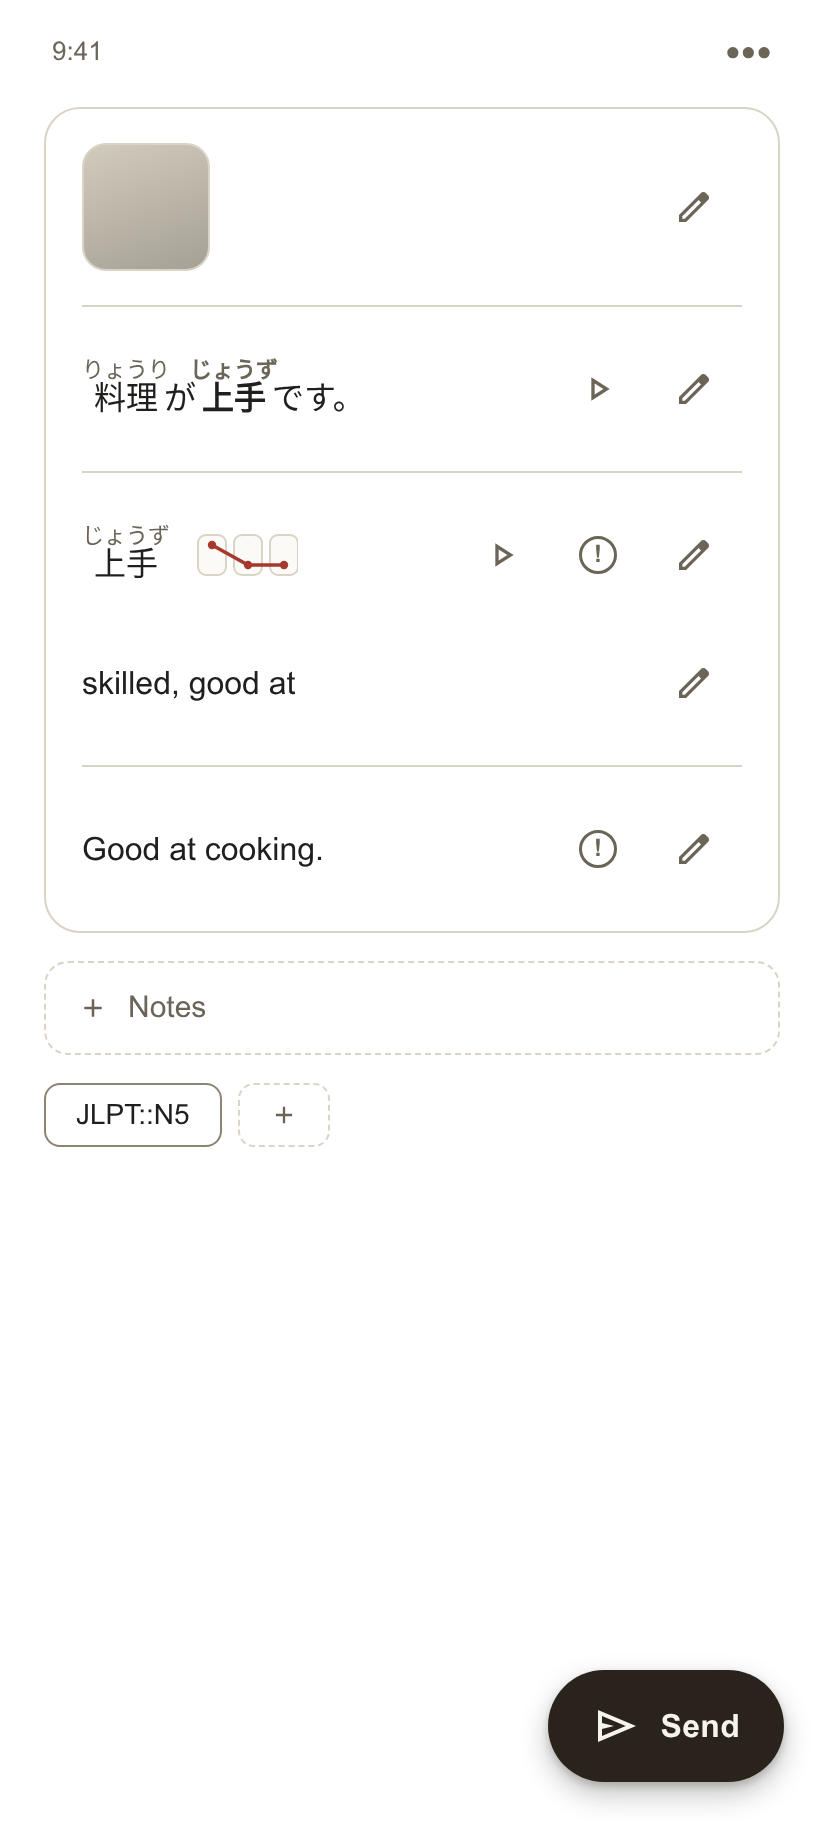
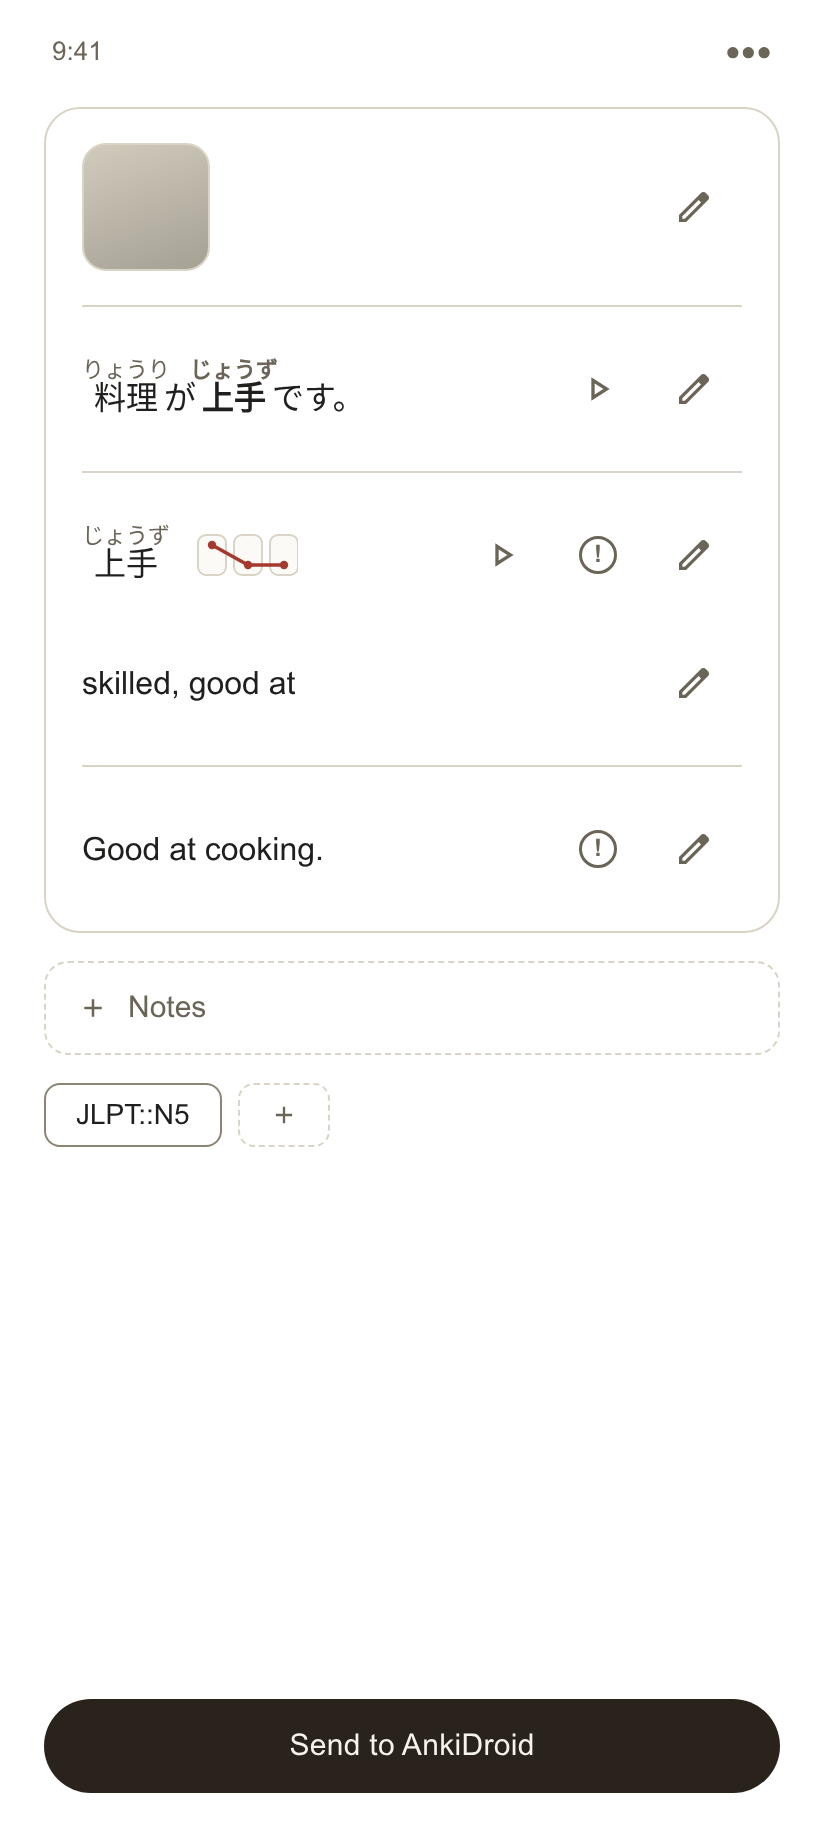
chore: establish spec and mockup baseline

Changed region(s): [[0.0303, 0.9033, 0.9405, 0.9967], [0.9405, 0.9344, 0.9709, 0.9656]]

diff --git a/mockup/mockup.html b/mockup/mockup.html
@@ -97,7 +97,7 @@
     <p class="eyebrow">Reviewed UI concept — Japanese sentence-mining input app</p>
     <h1>Capture, choose, send</h1>
     <p class="lede">34 representative states, all rendered from HTML/CSS at the same 412×915 reference viewport. These are design references, not a complete interactive application or proof of Android accessibility. <code>SPEC.md</code> governs behavior; the HTML/CSS generates the PNGs. Keyboard, long-content, and native accessibility checks remain required.</p>
-    <p class="lede">Built over rounds of iteration in chat: three initial layout directions narrowed to Card &amp; Sheets, then refined around photo/OCR capture, pitch display, audio sourcing, translation, tags, a neutral interface color with pitch as the only chromatic element, and a pass making the review card the persistent ground truth for the whole session. The component system now follows <a href="https://m3.material.io/">Material Design 3 Expressive</a> (the 2025 update) — a custom color scheme (sumi as <code>primary</code>, pitch hues kept outside it), Expressive's bolder type and shape scale, real segmented buttons, bottom sheets, and an extended FAB for Send, and inlined Material Symbols icons in place of plain Unicode glyphs. Expressive's richer color palettes and decorative "Hero Moment" shape library are deliberately declined — they conflict with an app used one-handed, mid-trip, dozens of times a session, where color means exactly one thing (pitch).</p>
+    <p class="lede">Built over rounds of iteration in chat: three initial layout directions narrowed to Card &amp; Sheets, then refined around photo/OCR capture, pitch display, audio sourcing, translation, tags, a neutral interface color with pitch as the only chromatic element, and a pass making the review card the persistent ground truth for the whole session. The component system now follows <a href="https://m3.material.io/">Material Design 3 Expressive</a> (the 2025 update) — a custom color scheme (sumi as <code>primary</code>, pitch hues kept outside it), Expressive's bolder type and shape scale, real segmented buttons and bottom sheets, and inlined Material Symbols icons in place of plain Unicode glyphs. Expressive's richer color palettes and decorative "Hero Moment" shape library are deliberately declined — they conflict with an app used one-handed, mid-trip, dozens of times a session, where color means exactly one thing (pitch). A floating FAB for Send was tried and reverted: it fits starting something new, not submitting a completed review.</p>
   </header>
 
   <div class="toc">
@@ -111,7 +111,7 @@
     <p>The interaction direction is specified; dependency and device verification remain open: on-device OCR, image sharing, and photo/image linking (§3.1, §4.2, §4.8), the review-card-as-ground-truth interaction model and Edit word sheet (§4.1–§4.5, §4.10), furigana's three visual states (§5.4), pick-not-drawn pitch selection and the per-mora block diagram (§5.5), the NHK-first audio chain with recording fully removed (§3.2, §6), automatic Azure-first/local-fallback translation (§7.2), tags-remember-last-note (§7.4), and the settings-vs-build-time reasoning for the Azure key (§4.9). The cumulative rationale for each is in §17's Decision precedence list.</p>
     <ul>
       <li>New bundled dependencies this introduces — on-device OCR and a local ja→en fallback model — are release-gated in §15 (gates 11–12), the same tier as MeCab/UniDic. A nasal-annotated pitch source is gate 14; the pinned Kanjium data has none today.</li>
-      <li>Acceptance tests A08, A13, A15–A20, A24–A25, A32, A37, A41–A64 cover this concept's specific behaviors.</li>
+      <li>Acceptance tests A08, A13, A15–A20, A24–A25, A32, A37, A41–A65 cover this concept's specific behaviors.</li>
     </ul>
     <p class="open">Final-review decisions: readings are automatic and optional everywhere; dictionary misses preserve the sentence for editing or reselection; unexpected errors preserve the saved draft. These supersede the earlier reading-confirmation and discard-on-error policies. See <a href="REVIEW.md">the review record</a> for validation and remaining release gates.</p>
   </div>
@@ -200,7 +200,7 @@
       <div class="frame"><img class="shot" src="screens/14-review-card-generating.png"><p class="frame-caption">14 — review-card-generating<br>Spinners on the online-sourced fields only — furigana/definition/pitch are local and already resolved</p></div>
       <div class="frame"><img class="shot" src="screens/15-review-card-flags.png"><p class="frame-caption">15 — review-card-flags<br>Ambiguous pitch + local-fallback translation, together — flag and edit are always two separate icons</p></div>
       <div class="frame"><img class="shot" src="screens/16-flag-explainer.png"><p class="frame-caption">16 — flag-explainer<br>Tapping the flag (not the pencil) explains the pitch ambiguity; Send remains available and the pencil opens Edit word</p></div>
-      <div class="frame"><img class="shot" src="screens/17-sending.png"><p class="frame-caption">17 — sending<br>Full card unchanged; only the FAB's icon becomes a spinner</p></div>
+      <div class="frame"><img class="shot" src="screens/17-sending.png"><p class="frame-caption">17 — sending<br>Full card unchanged; only the button becomes a spinner</p></div>
       <div class="frame"><img class="shot" src="screens/18-success.png"><p class="frame-caption">18 — success<br>Filled checkmark and Notes remain on the same card; a blank capture screen follows immediately after</p></div>
       <div class="frame"><img class="shot" src="screens/19-duplicate-blocked.png"><p class="frame-caption">19 — duplicate-blocked<br>§9.3 duplicate rule — card stays as submitted; Open in AnkiDroid opens the existing duplicate there, not an internal review</p></div>
       <div class="frame"><img class="shot" src="screens/20-send-uncertain.png"><p class="frame-caption">20 — send-uncertain<br>§9.5 unresolved outcome after reconciliation — inspect AnkiDroid before a checked retry</p></div>

diff --git a/mockup/shared.css b/mockup/shared.css
@@ -27,9 +27,11 @@
    wholesale — three of its five headline themes actively conflict with this
    app's own thesis and are declined on purpose, the same way the custom
    color scheme above declines the M3 baseline palette.
-     Adopted:  bigger/bolder emphasized type (headlines, FAB label, sheet
-               titles below); the new FAB size set (.fab-extended); a
-               mechanical bump to the large/extra-large shape tokens.
+     Adopted:  bigger/bolder emphasized type (headlines, sheet titles below);
+               a mechanical bump to the large/extra-large shape tokens.
+               A Send FAB was tried and reverted (SPEC.md §17) — floating
+               emphasis fits starting something new, not submitting a
+               completed review; it's back to a full-width docked button.
      Declined: "richer palettes with clearer primary/secondary/tertiary
                separation" — this app has no secondary/tertiary role, color
                still means exactly one thing (pitch); the 35-shape "Hero
@@ -157,9 +159,9 @@ body.tall .screen{height:auto;}
 ruby{ruby-align:center;} rt{font-size:11px; color:var(--muted);}
 .furi-gap{text-decoration:underline dotted var(--muted); text-underline-offset:4px;}
 
-.scrim{position:absolute; left:0; right:0; top:48px; bottom:0; background:rgba(10,9,7,.42); z-index:10;}
+.scrim{position:absolute; left:0; right:0; top:48px; bottom:0; background:rgba(10,9,7,.42);}
 /* M3 modal bottom sheet: shape.extraLarge (28dp) top corners, surface-container-high tone */
-.sheet{position:absolute; left:0; right:0; bottom:0; max-height:calc(100dvh - 48px); overflow-y:auto; background:var(--surface-container-high); border-radius:var(--shape-xl) var(--shape-xl) 0 0; padding:16px 20px 22px; box-shadow:0 -14px 40px rgba(0,0,0,.28); display:flex; flex-direction:column; gap:14px; z-index:20;}
+.sheet{position:absolute; left:0; right:0; bottom:0; max-height:calc(100dvh - 48px); overflow-y:auto; background:var(--surface-container-high); border-radius:var(--shape-xl) var(--shape-xl) 0 0; padding:16px 20px 22px; box-shadow:0 -14px 40px rgba(0,0,0,.28); display:flex; flex-direction:column; gap:14px;}
 .sheet-handle{width:32px; height:4px; border-radius:var(--shape-full); background:var(--rule); margin:0 auto 4px;}
 
 .rulecall{border:1px solid var(--rule); border-radius:var(--shape-md); padding:16px 18px; background:var(--field-bg); font-size:14.5px; line-height:1.6; color:var(--ink);}
@@ -294,24 +296,3 @@ ruby{ruby-align:center;} rt{font-size:11px; color:var(--muted);}
 .action-area{display:flex; flex-direction:column; gap:12px;}
 .status-row{display:flex; align-items:center; gap:10px; font-size:15px; color:var(--ink);}
 .status-row .sub{font-size:13px; color:var(--muted); margin-top:2px;}
-
-/* M3 Expressive extended FAB — Send's idle/sending states only. Success,
-   blocked, and uncertain already replace the action area with their own
-   status-row (above) and were never a button to begin with, so there is no
-   FAB state for them — it would divorce the explanation text from the
-   control. Floats fixed above the scrolling card; .screen.has-fab adds
-   scroll-bottom clearance so the last row never sits under it. Elevation is
-   a second deliberate exception to this app's flat/outlined surfaces (the
-   first is the bottom sheet) — a FAB reads as "floating" only if it visibly
-   lifts off the page. */
-.screen.has-fab{padding-bottom:96px;}
-.fab-extended{
-  position:fixed; right:20px; bottom:24px; z-index:5;
-  display:inline-flex; align-items:center; gap:10px;
-  height:56px; padding:0 22px; border:none; border-radius:var(--shape-full);
-  background:var(--accent); color:var(--on-accent);
-  font-family:var(--font-ui); font-size:16px; font-weight:600; letter-spacing:.01em;
-  box-shadow:0 6px 14px rgba(20,18,14,.26), 0 2px 4px rgba(20,18,14,.18);
-}
-.fab-extended .mi{width:24px; height:24px;}
-.fab-extended .spinner{border-color:rgba(255,255,255,.4); border-top-color:var(--on-accent);}

diff --git a/mockup/screens/12-generic-error-sheet.html b/mockup/screens/12-generic-error-sheet.html
@@ -4,7 +4,7 @@
 </head>
 <body>
   <div class="statusbar"><span>9:41</span><span>●●●</span></div>
-  <div class="screen has-fab">
+  <div class="screen">
     <div class="card-preview">
       <div class="card-field">
         <span class="photo-chip" style="width:64px; height:64px; border-radius:12px;"></span>
@@ -36,8 +36,8 @@
     <div class="ghost-row"><svg class="mi" viewBox="0 -960 960 960"><path d="M440-440H200v-80h240v-240h80v240h240v80H520v240h-80v-240Z"/></svg> Notes</div>
     <div class="chips"><span class="chip">JLPT::N5</span><span class="chip dashed"><svg class="mi" viewBox="0 -960 960 960"><path d="M440-440H200v-80h240v-240h80v240h240v80H520v240h-80v-240Z"/></svg></span></div>
     <div class="spacer"></div>
+    <div class="btn-primary full">Send to AnkiDroid</div>
   </div>
-  <button class="fab-extended" aria-label="Send to AnkiDroid"><svg class="mi" viewBox="0 -960 960 960"><path d="M120-160v-640l760 320-760 320Zm80-120 474-200-474-200v140l240 60-240 60v140Zm0 0v-400 400Z"/></svg><span>Send</span></button>
   <div class="scrim"></div>
   <div class="sheet">
     <div class="sheet-handle"></div>

diff --git a/mockup/screens/21-change-image-sheet.html b/mockup/screens/21-change-image-sheet.html
@@ -4,7 +4,7 @@
 </head>
 <body>
   <div class="statusbar"><span>9:41</span><span>●●●</span></div>
-  <div class="screen has-fab">
+  <div class="screen">
     <div class="card-preview">
       <div class="card-field">
         <span class="photo-chip" style="width:64px; height:64px; border-radius:12px;"></span>
@@ -36,8 +36,8 @@
     <div class="ghost-row"><svg class="mi" viewBox="0 -960 960 960"><path d="M440-440H200v-80h240v-240h80v240h240v80H520v240h-80v-240Z"/></svg> Notes</div>
     <div class="chips"><span class="chip">JLPT::N5</span><span class="chip dashed"><svg class="mi" viewBox="0 -960 960 960"><path d="M440-440H200v-80h240v-240h80v240h240v80H520v240h-80v-240Z"/></svg></span></div>
     <div class="spacer"></div>
+    <div class="btn-primary full">Send to AnkiDroid</div>
   </div>
-  <button class="fab-extended" aria-label="Send to AnkiDroid"><svg class="mi" viewBox="0 -960 960 960"><path d="M120-160v-640l760 320-760 320Zm80-120 474-200-474-200v140l240 60-240 60v140Zm0 0v-400 400Z"/></svg><span>Send</span></button>
   <div class="scrim"></div>
   <div class="sheet">
     <div class="sheet-handle"></div>

diff --git a/mockup/screens/22-edit-word-sheet-single.html b/mockup/screens/22-edit-word-sheet-single.html
@@ -4,7 +4,7 @@
 </head>
 <body>
   <div class="statusbar"><span>9:41</span><span>●●●</span></div>
-  <div class="screen has-fab">
+  <div class="screen">
     <div class="card-preview">
       <div class="card-field">
         <span class="photo-chip" style="width:64px; height:64px; border-radius:12px;"></span>
@@ -36,8 +36,8 @@
     <div class="ghost-row"><svg class="mi" viewBox="0 -960 960 960"><path d="M440-440H200v-80h240v-240h80v240h240v80H520v240h-80v-240Z"/></svg> Notes</div>
     <div class="chips"><span class="chip">JLPT::N5</span><span class="chip dashed"><svg class="mi" viewBox="0 -960 960 960"><path d="M440-440H200v-80h240v-240h80v240h240v80H520v240h-80v-240Z"/></svg></span></div>
     <div class="spacer"></div>
+    <div class="btn-primary full">Send to AnkiDroid</div>
   </div>
-  <button class="fab-extended" aria-label="Send to AnkiDroid"><svg class="mi" viewBox="0 -960 960 960"><path d="M120-160v-640l760 320-760 320Zm80-120 474-200-474-200v140l240 60-240 60v140Zm0 0v-400 400Z"/></svg><span>Send</span></button>
   <div class="scrim"></div>
   <div class="sheet">
     <div class="sheet-handle"></div>

diff --git a/mockup/screens/23-edit-word-sheet-multi.html b/mockup/screens/23-edit-word-sheet-multi.html
@@ -4,7 +4,7 @@
 </head>
 <body>
   <div class="statusbar"><span>9:41</span><span>●●●</span></div>
-  <div class="screen has-fab">
+  <div class="screen">
     <div class="card-preview">
       <div class="card-field">
         <span class="photo-chip" style="width:64px; height:64px; border-radius:12px;"></span>
@@ -38,8 +38,8 @@
     <div class="ghost-row"><svg class="mi" viewBox="0 -960 960 960"><path d="M440-440H200v-80h240v-240h80v240h240v80H520v240h-80v-240Z"/></svg> Notes</div>
     <div class="chips"><span class="chip">JLPT::N5</span><span class="chip dashed"><svg class="mi" viewBox="0 -960 960 960"><path d="M440-440H200v-80h240v-240h80v240h240v80H520v240h-80v-240Z"/></svg></span></div>
     <div class="spacer"></div>
+    <div class="btn-primary full">Send to AnkiDroid</div>
   </div>
-  <button class="fab-extended" aria-label="Send to AnkiDroid"><svg class="mi" viewBox="0 -960 960 960"><path d="M120-160v-640l760 320-760 320Zm80-120 474-200-474-200v140l240 60-240 60v140Zm0 0v-400 400Z"/></svg><span>Send</span></button>
   <div class="scrim"></div>
   <div class="sheet">
     <div class="sheet-handle"></div>

diff --git a/mockup/screens/24-edit-definition-sheet.html b/mockup/screens/24-edit-definition-sheet.html
@@ -4,7 +4,7 @@
 </head>
 <body>
   <div class="statusbar"><span>9:41</span><span>●●●</span></div>
-  <div class="screen has-fab">
+  <div class="screen">
     <div class="card-preview">
       <div class="card-field">
         <span class="photo-chip" style="width:64px; height:64px; border-radius:12px;"></span>
@@ -36,8 +36,8 @@
     <div class="ghost-row"><svg class="mi" viewBox="0 -960 960 960"><path d="M440-440H200v-80h240v-240h80v240h240v80H520v240h-80v-240Z"/></svg> Notes</div>
     <div class="chips"><span class="chip">JLPT::N5</span><span class="chip dashed"><svg class="mi" viewBox="0 -960 960 960"><path d="M440-440H200v-80h240v-240h80v240h240v80H520v240h-80v-240Z"/></svg></span></div>
     <div class="spacer"></div>
+    <div class="btn-primary full">Send to AnkiDroid</div>
   </div>
-  <button class="fab-extended" aria-label="Send to AnkiDroid"><svg class="mi" viewBox="0 -960 960 960"><path d="M120-160v-640l760 320-760 320Zm80-120 474-200-474-200v140l240 60-240 60v140Zm0 0v-400 400Z"/></svg><span>Send</span></button>
   <div class="scrim"></div>
   <div class="sheet">
     <div class="sheet-handle"></div>

diff --git a/mockup/screens/26-add-tag-sheet.html b/mockup/screens/26-add-tag-sheet.html
@@ -4,7 +4,7 @@
 </head>
 <body>
   <div class="statusbar"><span>9:41</span><span>●●●</span></div>
-  <div class="screen has-fab">
+  <div class="screen">
     <div class="card-preview">
       <div class="card-field">
         <span class="photo-chip" style="width:64px; height:64px; border-radius:12px;"></span>
@@ -36,8 +36,8 @@
     <div class="ghost-row"><svg class="mi" viewBox="0 -960 960 960"><path d="M440-440H200v-80h240v-240h80v240h240v80H520v240h-80v-240Z"/></svg> Notes</div>
     <div class="chips"><span class="chip">JLPT::N5</span><span class="chip dashed"><svg class="mi" viewBox="0 -960 960 960"><path d="M440-440H200v-80h240v-240h80v240h240v80H520v240h-80v-240Z"/></svg></span></div>
     <div class="spacer"></div>
+    <div class="btn-primary full">Send to AnkiDroid</div>
   </div>
-  <button class="fab-extended" aria-label="Send to AnkiDroid"><svg class="mi" viewBox="0 -960 960 960"><path d="M120-160v-640l760 320-760 320Zm80-120 474-200-474-200v140l240 60-240 60v140Zm0 0v-400 400Z"/></svg><span>Send</span></button>
   <div class="scrim"></div>
   <div class="sheet">
     <div class="sheet-handle"></div>

diff --git a/mockup/screens/17-sending.html b/mockup/screens/17-sending.html
@@ -4,7 +4,7 @@
 </head>
 <body>
   <div class="statusbar"><span>9:41</span><span>●●●</span></div>
-  <div class="screen has-fab">
+  <div class="screen">
     <div class="card-preview">
       <div class="card-field">
         <span class="photo-chip" style="width:64px; height:64px; border-radius:12px;"></span>
@@ -36,6 +36,6 @@
     <div class="ghost-row"><svg class="mi" viewBox="0 -960 960 960"><path d="M440-440H200v-80h240v-240h80v240h240v80H520v240h-80v-240Z"/></svg> Notes</div>
     <div class="chips"><span class="chip">JLPT::N5</span><span class="chip dashed"><svg class="mi" viewBox="0 -960 960 960"><path d="M440-440H200v-80h240v-240h80v240h240v80H520v240h-80v-240Z"/></svg></span></div>
     <div class="spacer"></div>
+    <div class="btn-primary full" style="display:flex; align-items:center; justify-content:center; gap:10px; background:var(--field-bg); color:var(--ink); border:1px solid var(--rule);"><span class="spinner"></span> Sending…</div>
   </div>
-  <button class="fab-extended" aria-label="Sending"><span class="spinner"></span><span>Sending…</span></button>
 </body></html>

diff --git a/mockup/screens/16-flag-explainer.html b/mockup/screens/16-flag-explainer.html
@@ -4,7 +4,7 @@
 </head>
 <body>
   <div class="statusbar"><span>9:41</span><span>●●●</span></div>
-  <div class="screen has-fab">
+  <div class="screen">
     <div class="card-preview">
       <div class="card-field">
         <span class="photo-chip" style="width:64px; height:64px; border-radius:12px;"></span>
@@ -39,6 +39,6 @@
     <div class="chips"><span class="chip">JLPT::N5</span><span class="chip dashed"><svg class="mi" viewBox="0 -960 960 960"><path d="M440-440H200v-80h240v-240h80v240h240v80H520v240h-80v-240Z"/></svg></span></div>
     <div class="popover inline-explainer" id="pitch-explanation" role="note">上手 has more than one listed pattern. The first was selected automatically.</div>
     <div class="spacer"></div>
+    <div class="btn-primary full">Send to AnkiDroid</div>
   </div>
-  <button class="fab-extended" aria-label="Send to AnkiDroid"><svg class="mi" viewBox="0 -960 960 960"><path d="M120-160v-640l760 320-760 320Zm80-120 474-200-474-200v140l240 60-240 60v140Zm0 0v-400 400Z"/></svg><span>Send</span></button>
 </body></html>

diff --git a/mockup/screens/13-review-card.html b/mockup/screens/13-review-card.html
@@ -4,7 +4,7 @@
 </head>
 <body>
   <div class="statusbar"><span>9:41</span><span>●●●</span></div>
-  <div class="screen has-fab">
+  <div class="screen">
     <div class="card-preview">
       <div class="card-field">
         <span class="photo-chip" style="width:64px; height:64px; border-radius:12px;"></span>
@@ -36,6 +36,6 @@
     <div class="ghost-row"><svg class="mi" viewBox="0 -960 960 960"><path d="M440-440H200v-80h240v-240h80v240h240v80H520v240h-80v-240Z"/></svg> Notes</div>
     <div class="chips"><span class="chip">JLPT::N5</span><span class="chip dashed"><svg class="mi" viewBox="0 -960 960 960"><path d="M440-440H200v-80h240v-240h80v240h240v80H520v240h-80v-240Z"/></svg></span></div>
     <div class="spacer"></div>
+    <div class="btn-primary full">Send to AnkiDroid</div>
   </div>
-  <button class="fab-extended" aria-label="Send to AnkiDroid"><svg class="mi" viewBox="0 -960 960 960"><path d="M120-160v-640l760 320-760 320Zm80-120 474-200-474-200v140l240 60-240 60v140Zm0 0v-400 400Z"/></svg><span>Send</span></button>
 </body></html>

diff --git a/mockup/screens/15-review-card-flags.html b/mockup/screens/15-review-card-flags.html
@@ -4,7 +4,7 @@
 </head>
 <body>
   <div class="statusbar"><span>9:41</span><span>●●●</span></div>
-  <div class="screen has-fab">
+  <div class="screen">
     <div class="card-preview">
       <div class="card-field">
         <span class="photo-chip" style="width:64px; height:64px; border-radius:12px;"></span>
@@ -38,6 +38,6 @@
     <div class="ghost-row"><svg class="mi" viewBox="0 -960 960 960"><path d="M440-440H200v-80h240v-240h80v240h240v80H520v240h-80v-240Z"/></svg> Notes</div>
     <div class="chips"><span class="chip">JLPT::N5</span><span class="chip dashed"><svg class="mi" viewBox="0 -960 960 960"><path d="M440-440H200v-80h240v-240h80v240h240v80H520v240h-80v-240Z"/></svg></span></div>
     <div class="spacer"></div>
+    <div class="btn-primary full">Send to AnkiDroid</div>
   </div>
-  <button class="fab-extended" aria-label="Send to AnkiDroid"><svg class="mi" viewBox="0 -960 960 960"><path d="M120-160v-640l760 320-760 320Zm80-120 474-200-474-200v140l240 60-240 60v140Zm0 0v-400 400Z"/></svg><span>Send</span></button>
 </body></html>
